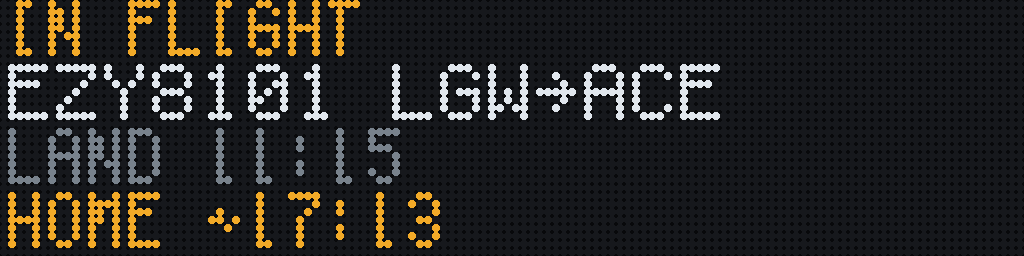
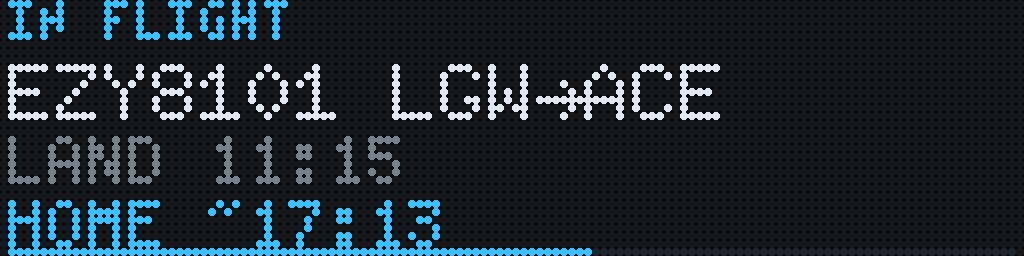
LED: minimum one 64x32 panel, long lines scroll, stale warning

diff --git a/displays.html b/displays.html
@@ -78,7 +78,7 @@
     <tr><td class="k">Power</td><td class="yes" data-label="Colour e-paper">Under a watt; holds its picture unplugged; can run on a battery</td><td data-label="LED matrix">Several watts, more at full brightness; mains only</td></tr>
     <tr><td class="k">Assembly</td><td class="yes" data-label="Colour e-paper">Nothing (E1002), or push onto the Pi, no soldering</td><td data-label="LED matrix">Ribbon cable, power injection, a bonnet</td></tr>
     <tr><td class="k">Best in</td><td data-label="Colour e-paper">Hall, kitchen, bedroom, lounge</td><td data-label="LED matrix">Study, office, workshop, bar</td></tr>
-    <tr><td class="k">Cost</td><td data-label="Colour e-paper">£50–£230 for a Pi panel; about £100 for an E1002</td><td data-label="LED matrix">£35–£45 for two panels, plus a bonnet and supply</td></tr>
+    <tr><td class="k">Cost</td><td data-label="Colour e-paper">£50–£230 for a Pi panel; about £100 for an E1002</td><td data-label="LED matrix">£17–£22 a panel (one or two), plus a bonnet and supply</td></tr>
   </table>
   <div class="note" style="margin-top:18px">
     For a room where you relax, buy e-paper. If you
@@ -122,16 +122,18 @@
   <div class="ledstack">
     <figure class="led"><figure class="dev ledf"><img src="img/scenes/led_px_128x32_inflight.png" alt="Two chained 64 by 32 LED panels: IN FLIGHT, EZY8101 LGW to ACE, LAND 11:15, HOME about 17:13" width="1024" height="256" loading="lazy"></figure><figcaption>128&times;32, two panels &middot; in flight</figcaption></figure>
     <figure class="led"><figure class="dev ledf"><img src="img/scenes/led_px_128x32_turnaround.png" alt="Two chained 64 by 32 LED panels: TURNAROUND, EZY1502 OSL to BRS, DEP 10:20, HOME about 14:13" width="1024" height="256" loading="lazy"></figure><figcaption>128&times;32, two panels &middot; turnaround</figcaption></figure>
-    <figure class="led half"><figure class="dev ledf"><img src="img/scenes/led_px_64x32_inflight.png" alt="One 64 by 32 LED panel: the same screen, with the flight line cut to EZY8101 LG" width="512" height="256" loading="lazy"></figure><figcaption>64&times;32, one panel &middot; the flight line is cut short</figcaption></figure>
+    <figure class="led half"><figure class="dev ledf"><img src="img/scenes/led_px_64x32_inflight.gif" alt="One 64 by 32 LED panel: the same screen, with the flight line EZY8101 LGW to ACE scrolling sideways because it is too long for the panel" width="512" height="256" loading="lazy"></figure><figcaption>64&times;32, one panel &middot; long lines scroll</figcaption></figure>
+    <figure class="led"><figure class="dev ledf"><img src="img/scenes/led_px_128x32_stale.png" alt="Two chained 64 by 32 LED panels with an out-of-date roster: NOT UPDATED TUE 08:10 in yellow on the top line, the flight, land and home times in grey" width="1024" height="256" loading="lazy"></figure><figcaption>128&times;32 &middot; the roster hasn't updated for two hours</figcaption></figure>
+    <figure class="led half"><figure class="dev ledf"><img src="img/scenes/led_px_64x32_stale.gif" alt="One 64 by 32 LED panel with an out-of-date roster: NOT UPDATED TUE 08:10 in yellow scrolling across the top line, the rest in grey" width="512" height="256" loading="lazy"></figure><figcaption>64&times;32 &middot; the same warning, scrolling</figcaption></figure>
   </div>
 
   <p class="note" style="margin:22px 0">These pictures show every pixel the panel lights, in the places Ident puts them. The letter shapes on a real panel differ slightly.</p>
   <table>
     <tr><th>Configuration</th><th>Pixels</th><th>Indicative</th><th>Verdict</th></tr>
     <tr><td class="k">2 &times; <a href="https://thepihut.com/products/rgb-full-colour-led-matrix-panel-4mm-pitch-64x32-pixels" target="_blank" rel="noopener">64&times;32 panels</a>, chained</td><td class="mono" data-label="Pixels">128&times;32</td><td data-label="Indicative">~&pound;35&ndash;&pound;45 + bonnet</td>
-      <td data-label="Verdict"><span class="yes">Recommended.</span> Every line fits. Buy two of the same pitch from the same supplier.</td></tr>
+      <td data-label="Verdict"><span class="yes">Works.</span> Every line fits at once, nothing scrolls. Buy two of the same pitch from the same supplier.</td></tr>
     <tr><td class="k">One 64&times;32 panel</td><td class="mono" data-label="Pixels">64&times;32</td><td data-label="Indicative">~&pound;17&ndash;&pound;22 + bonnet</td>
-      <td data-label="Verdict">Works, but the flight and route line is cut short.</td></tr>
+      <td data-label="Verdict"><span class="yes">The minimum.</span> Lines too long for the panel scroll sideways.</td></tr>
     <tr><td class="k">64&times;64 or 128&times;64</td><td class="mono" data-label="Pixels">64 tall</td><td data-label="Indicative">n/a</td>
       <td data-label="Verdict"><span class="no">Not supported yet.</span> Ident draws only on the top 32 rows, so half the panel stays dark. Please don't buy one for Ident until this page says it works.</td></tr>
   </table>
@@ -141,7 +143,7 @@
     <strong>You'll also need:</strong> an <strong><a href="https://thepihut.com/products/adafruit-rgb-matrix-bonnet-for-raspberry-pi-ada3211" target="_blank" rel="noopener">Adafruit RGB Matrix Bonnet</a></strong> (£14.40, sold out at
     The Pi Hut on 26 September 2026; the <a href="https://thepihut.com/products/adafruit-rgb-matrix-hat-rtc-for-raspberry-pi-mini-kit" target="_blank" rel="noopener">Matrix HAT + RTC</a> does the same job) to
     drive the panel cleanly, and a <strong><a href="https://thepihut.com/products/5v-4a-power-supply-2-1mm-jack" target="_blank" rel="noopener">5V power supply sized for the panels</a></strong>: not the
-    Pi's supply. Each 64×32 panel can pull 2–4A at full white, so two panels want a 5V supply of at least 4A. Budget £15–£20 for the
+    Pi's supply. Each 64×32 panel can pull 2–4A at full white; a 5V supply of at least 4A covers one or two. Budget £15–£20 for the
     bonnet and £10–£15 for the supply.
   </div>
 

diff --git a/faq.html b/faq.html
@@ -58,7 +58,7 @@
 <p>The Ident software, with its guide and support. You buy the hardware yourself, from whichever supplier you like: we don't mark up hardware or hold stock, so you pay the going rate.</p><div class="per">
 <div><b class="p">Ident for E1002</b><div><p>One box: Seeed's reTerminal E1002, a 7.3&Prime; colour e-paper display with its own battery, case and stand. Nothing to assemble. In testing, not on sale yet.</p></div></div>
 <div><b class="p">Pi, e-paper</b><div><p>A Raspberry Pi, a Pimoroni Inky Impression panel and a memory card. No soldering. <a href="parts.html#reference">The reference build</a> comes to about &pound;126.</p></div></div>
-<div><b class="p">Pi, LED</b><div><p>A Raspberry Pi, two 64&times;32 HUB75 LED panels, a matrix bonnet and a separate power supply for the panels. More of a project. <a href="parts.html#led">The LED parts</a>.</p></div></div>
+<div><b class="p">Pi, LED</b><div><p>A Raspberry Pi, one or two 64&times;32 HUB75 LED panels, a matrix bonnet and a separate power supply for the panels. More of a project. <a href="parts.html#led">The LED parts</a>.</p></div></div>
 </div>
 </div></details>
 
@@ -84,8 +84,8 @@
 </div></details>
 
 <details><summary>Which LED panel size should I choose?</summary><div class="body">
-<p><b>Two 64&times;32 panels, chained side by side to make 128&times;32.</b> Ident shows four lines on an LED panel: what's happening, the flight and route, the landing time and the home time. At 128 pixels wide every line fits. The 64&times;32 panel is the commonest HUB75 panel there is, about &pound;17&ndash;&pound;22 each; buy two of the same pitch from the same supplier.</p>
-<p><b>One 64&times;32 panel</b> works, but cuts the flight line short (&ldquo;EZY8101 LG&rdquo;). <b>64&times;64 and 128&times;64 panels</b> aren't supported yet: Ident draws only on the top 32 rows, so half the panel stays dark. Please don't buy one for Ident until this page says they work.</p>
+<p><b>At least one 64&times;32 panel.</b> Ident shows four lines on an LED panel: what's happening, the flight and route, the landing time and the home time. On one 64&times;32 panel a line too long for it scrolls sideways, then starts again. Two 64&times;32 panels chained side by side (128&times;32) show every line at once, with nothing scrolling. The 64&times;32 panel is the commonest HUB75 panel there is, about &pound;17&ndash;&pound;22 each; if you buy two, buy the same pitch from the same supplier.</p>
+<p><b>64&times;64 and 128&times;64 panels</b> aren't supported yet: Ident draws only on the top 32 rows, so half the panel stays dark. Please don't buy one for Ident until this page says they work.</p>
 <p>The e-paper styles, the scan-to-track code and the month calendar are e-paper only.</p>
 </div></details>
 
@@ -121,7 +121,7 @@ one it will keep working.</p></div></details>
     <td data-label="Ident for E1002">Carries on, on its battery.</td></tr>
   <tr><td class="k">Wi-Fi down</td>
     <td data-label="Pi with e-paper">Shows what it last knew. After two hours it adds &ldquo;Not updated since&rdquo; and the time.</td>
-    <td data-label="Pi with LED panel">Shows what it last knew, with no warning that it is old.</td>
+    <td data-label="Pi with LED panel">Shows what it last knew. After two hours the top line says &ldquo;Not updated&rdquo; and the time, in yellow, and the rest turns grey.</td>
     <td data-label="Ident for E1002">Shows what it last knew. After two hours it adds &ldquo;Not updated since&rdquo; and the time.</td></tr>
   <tr><td class="k">In the dark</td>
     <td data-label="Pi with e-paper">No light of its own, like paper.</td>
@@ -159,7 +159,7 @@ one it will keep working.</p></div></details>
 </div></details>
 
 <details><summary>What happens if the Wi-Fi goes down?</summary><div class="body">
-<p>The display keeps showing what it last knew, and your roster stays on it. E-paper adds &ldquo;Not updated since&rdquo; and the time after two hours; an LED panel does not yet. The clock comes from the internet, so a long outage can leave the date behind; it corrects itself a minute or two after the Wi-Fi returns.</p><p>To give it new Wi-Fi, each one raises its own <span class="mono">Ident-Setup</span> network for your phone to join: the Pi by itself after two minutes offline, the E1002 when you hold a button for three seconds and it can't join the home Wi-Fi.</p>
+<p>The display keeps showing what it last knew, and your roster stays on it. After two hours, e-paper adds &ldquo;Not updated since&rdquo; and the time; an LED panel puts &ldquo;Not updated&rdquo; and the time on its top line and turns the rest grey. The clock comes from the internet, so a long outage can leave the date behind; it corrects itself a minute or two after the Wi-Fi returns.</p><p>To give it new Wi-Fi, each one raises its own <span class="mono">Ident-Setup</span> network for your phone to join: the Pi by itself after two minutes offline, the E1002 when you hold a button for three seconds and it can't join the home Wi-Fi.</p>
 </div></details>
 
 <h2 class="faqcat" id="setup"><b>03</b> / Setting up</h2>

diff --git a/parts.html b/parts.html
@@ -203,7 +203,7 @@
   <table>
     <tr><th>Part</th><th>Which one</th><th>Indicative</th></tr>
     <tr><td class="k">Panels</td>
-      <td data-label="Which one">Two <a href="https://thepihut.com/products/rgb-full-colour-led-matrix-panel-4mm-pitch-64x32-pixels" target="_blank" rel="noopener">64×32 HUB75 panels</a> of the same pitch, chained into 128×32</td><td data-label="Indicative">~£17–£22 each</td></tr>
+      <td data-label="Which one">One or two <a href="https://thepihut.com/products/rgb-full-colour-led-matrix-panel-4mm-pitch-64x32-pixels" target="_blank" rel="noopener">64×32 HUB75 panels</a>; two of the same pitch chain into 128×32</td><td data-label="Indicative">~£17–£22 each</td></tr>
     <tr><td class="k">Driver</td>
       <td data-label="Which one"><a href="https://thepihut.com/products/adafruit-rgb-matrix-bonnet-for-raspberry-pi-ada3211" target="_blank" rel="noopener">Adafruit RGB Matrix Bonnet</a>, or the
         <a href="https://thepihut.com/products/adafruit-rgb-matrix-hat-rtc-for-raspberry-pi-mini-kit" target="_blank" rel="noopener">Matrix HAT + RTC</a> when the bonnet is out of stock</td><td data-label="Indicative">£14.40</td></tr>
@@ -216,8 +216,8 @@
     <tr><td class="k"></td><td data-label="Which one"><strong>Total</strong></td><td data-label="Indicative"><strong>~£105</strong></td></tr>
   </table>
   <div class="note" style="margin-top:16px">
-    <strong>Two 64×32 panels</strong> show every line in full. One 64×32 works but cuts the flight
-    line short. <strong>64×64 and 128×64 aren't supported yet:</strong> Ident draws only on the top
+    <strong>One 64×32 panel is the minimum:</strong> lines too long for it scroll sideways.
+    <strong>Two</strong> show every line at once. The total assumes two. <strong>64×64 and 128×64 aren't supported yet:</strong> Ident draws only on the top
     32 rows. Panel prices checked at The Pi Hut on 5 November 2026.
   </div>
 </div></section>
